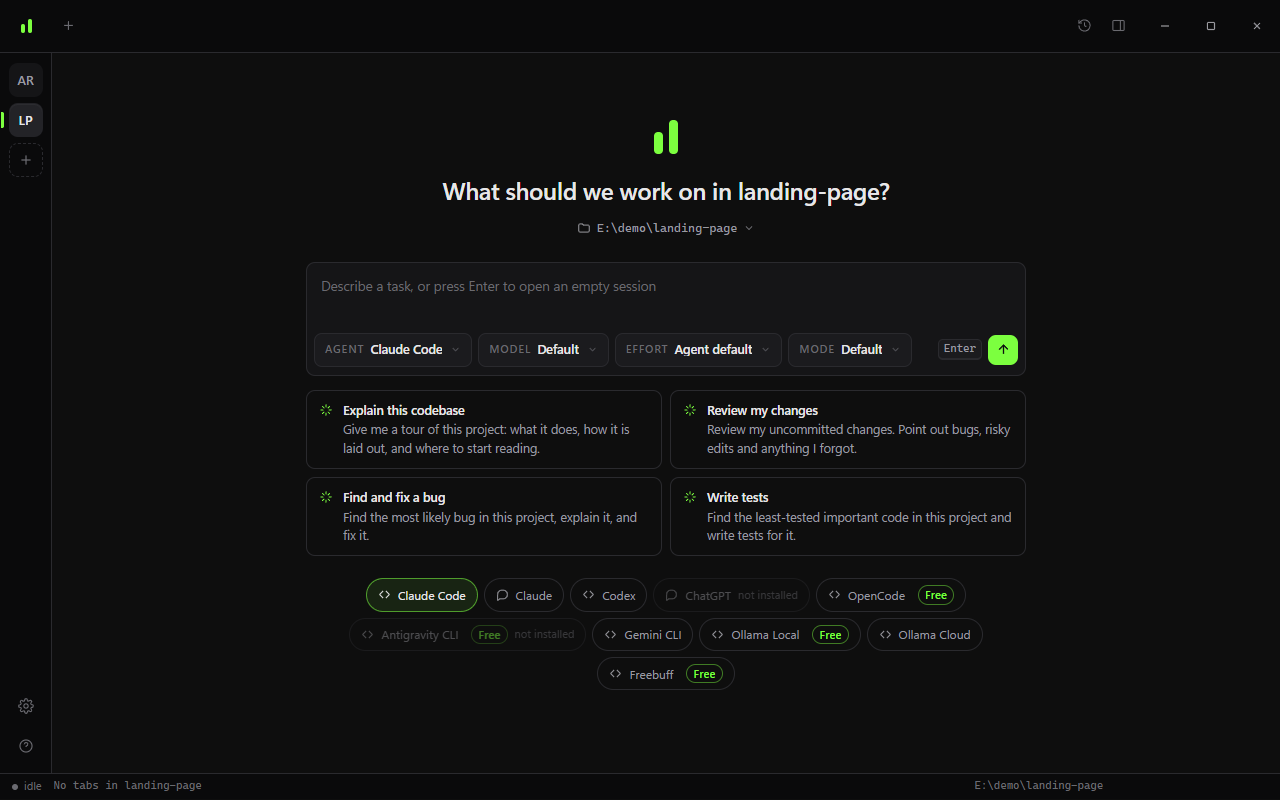
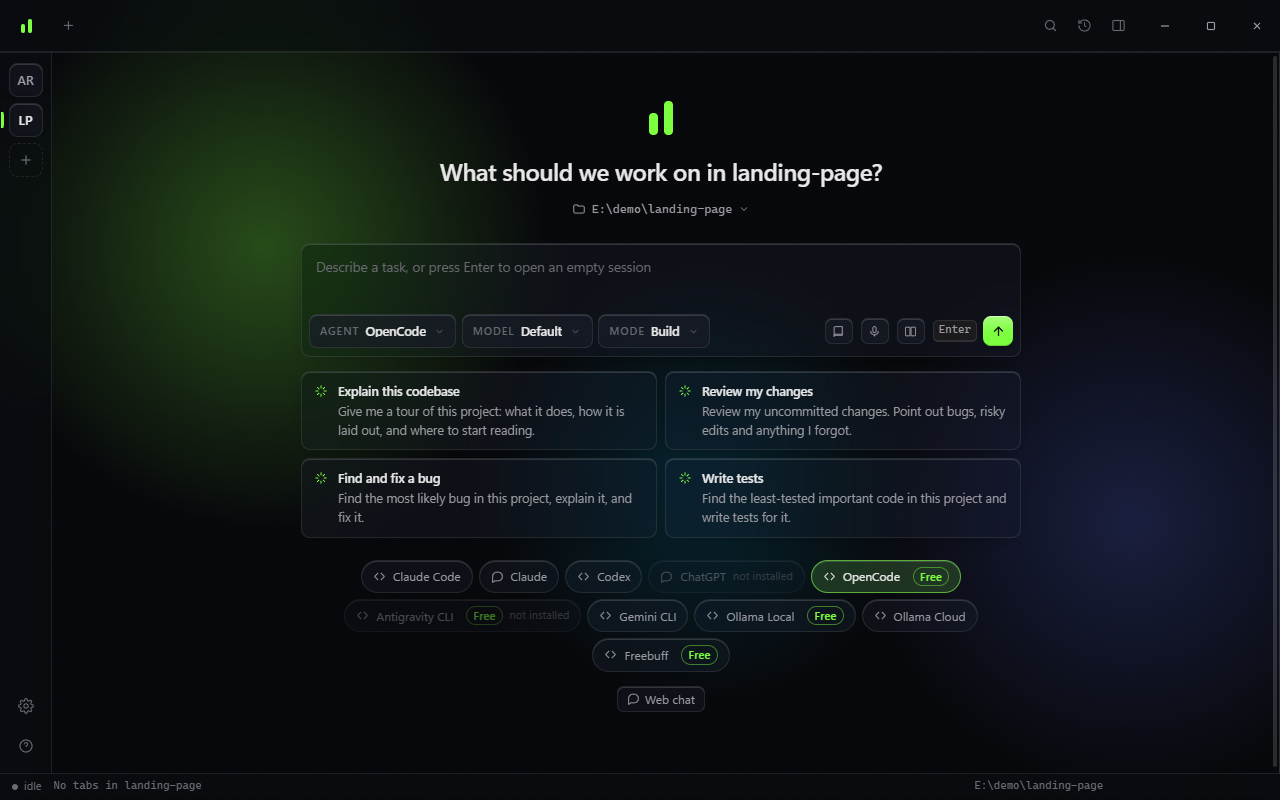
docs: 2.0 features, liquid glass screenshots and guide

Changed region(s): [[0.0625, 0.0625, 1.0, 0.9375], [0.7812, 0.9688, 0.8125, 1.0]]

diff --git a/README.md b/README.md
@@ -3,7 +3,7 @@
 </p>
 
 <p align="center">
-  A desktop-style window for Claude, Codex, OpenCode, Antigravity, Gemini CLI, Ollama and Freebuff, with a UI modeled on Freebuff.
+  A liquid-glass desktop window for Claude Code, Codex, OpenCode, Antigravity, Gemini CLI, Ollama and Freebuff.
 </p>
 
 ---
@@ -11,20 +11,32 @@
 ezCLI is not a harness. Each session spawns the real CLI in a real pseudo-terminal, so
 the agent's own text UI renders unchanged. Nothing is proxied, re-prompted, or rewritten.
 The window adds the parts a bare terminal lacks: tabs, an agent switcher, a file and diff
-browser, model, effort and mode flags you pick before launch, and images and videos
-you can paste or drop into the chat.
+browser with git actions, model, effort and mode flags you pick before launch, images and
+videos in the chat, and a compare mode that runs one prompt on several agents at once.
 
-![The ezCLI launcher: pick an agent, model, effort and mode, then describe the task](docs/screenshot-launcher.png)
+![The ezCLI launcher in the liquid glass style](docs/screenshot-launcher.png)
 
-![An OpenCode session with an image and a video attached in the composer](docs/screenshot-session.png)
+![Compare mode: one prompt running on three agents side by side](docs/screenshot-compare.png)
+
+![A session with an image and a video attached in the composer](docs/screenshot-session.png)
 
 ## Install
 
-The Windows installer lives on the [Releases page](https://github.com/Aryansingh0783/ezCLI/releases).
-Grab the latest `ezCLI_x.y.z_x64_en-US.msi`, double-click, done. The window opens with
-the agent CLIs already resolved from PATH.
+Download from the [Releases page](https://github.com/Aryansingh0783/ezCLI/releases/latest):
 
-The app writes its editable config to `~/.ezcli/agents.json` on first run.
+| Platform | File |
+| --- | --- |
+| Windows | `ezCLI_x.y.z_x64_en-US.msi` |
+| macOS (Apple silicon) | `ezCLI_x.y.z_aarch64.dmg` |
+| Linux | `ezCLI_x.y.z_amd64.deb` or `ezCLI_x.y.z_amd64.AppImage` |
+| VS Code | `ezcli-x.y.z.vsix`, then Extensions › … › Install from VSIX |
+
+The app writes its editable config to `~/.ezcli/agents.json` on first run. After that,
+ezCLI checks for new releases at startup and installs them with one click; an update is
+installed only when its download matches the SHA-256 published with the release.
+
+The macOS and Linux builds are new and less tested than Windows. PC control and voice
+typing are Windows-only for now.
 
 ## Free users and backend support
 
@@ -42,7 +54,7 @@ provider is free.
 | Backend | Free route | PC control | Install / setup |
 | --- | --- | --- | --- |
 | OpenCode | Yes. It includes key-free models and can also use connected providers or local Ollama. Its Model menu is refreshed from `opencode models`. | No | `npm install -g opencode-ai` |
-| Antigravity CLI | Yes, with a personal Google-account sign-in. It is the supported personal-Google route. | No | `irm https://antigravity.google/cli/install.ps1 \| iex` |
+| Antigravity CLI | Yes, with a personal Google-account sign-in. It is the supported personal-Google route. The Antigravity desktop app does not include this CLI. | No | `irm https://antigravity.google/cli/install.ps1 \| iex` |
 | Gemini CLI | Not through personal Google login. Use a Gemini API key, Vertex AI, or an enterprise configuration. | No | `npm install -g @google/gemini-cli` |
 | Ollama Local | Yes, after you choose a model that is already downloaded locally. The app detects coarse PC capacity to explain this route, but never pulls a model itself. | No | `irm https://ollama.com/install.ps1 \| iex` |
 | Ollama Cloud | Your signed-in Ollama account and its usage/plan limits apply. The Model pill reads Ollama's live public cloud catalog; it launches the matching Cloud CLI alias without a model download. | No | Install Ollama, then run `ollama signin` yourself |
@@ -72,6 +84,47 @@ an Ollama API key. It uses the signed-in local CLI only after you choose a live
 catalog entry.
 
 ## Current features
+
+### New in 2.0
+
+- **Compare agents.** Press `Ctrl+Alt+M`, pick up to six agents or models (or "All
+  ready agents"), and give one prompt. Each runs as its own CLI session, and the
+  window shows them side by side. "Send to all" sends every follow-up to the whole
+  group. Each session uses its own account and limits.
+- **Liquid glass.** Frosted panels over a slow aurora in your accent colour, with
+  small controls that refract what is behind them. Settings › Appearance switches
+  to Solid. Six accent colours.
+- **Command palette.** `Ctrl+Alt+P` searches every action, tab, folder and agent.
+- **Health check.** One screen with every CLI's version, path and sign-in state, and
+  the exact install command for anything missing. A provider's desktop app is not
+  its CLI; this screen says so.
+- **Updates.** ezCLI checks GitHub at startup and installs a new release with one
+  click after verifying its SHA-256.
+- **Prompt library.** Saved prompts with `{{variables}}` that are filled in before
+  insertion. `Ctrl+Alt+L`.
+- **Search past sessions.** Tab text is saved on this PC when a session ends, kept
+  for 30 days, and searchable with `Ctrl+Alt+F`. Turn it off in Settings.
+- **Export.** Save a session as Markdown or an HTML page (`Ctrl+Alt+E`).
+- **Git actions.** Stage, unstage, discard and commit from the Changes pane.
+  Discarding asks first.
+- **Usage-limit router.** When an agent says it is out of usage, a banner offers to
+  continue in another installed agent, free ones first, with a summary of your
+  recent requests.
+- **Notifications and tray.** A notification when a long task finishes in a tab you
+  are not looking at. Optionally keep running in the tray when the window closes.
+- **Per-folder defaults.** Each folder remembers the agent, model and mode it last
+  launched with.
+- **More windows.** Open a new window, or right-click a tab and move it, still
+  running, into its own window.
+- **Remote view.** Watch your sessions from a phone on the same Wi-Fi through a
+  private link and QR code. Typing from the phone is a separate switch.
+- **Voice typing.** `Ctrl+Alt+D` opens Windows voice typing in the message box.
+- **Web chat (experimental).** For plans with no CLI access, such as Claude Free,
+  open the provider's own site in a separate window with no ezCLI permissions.
+- **VS Code extension.** Start agents from your ezCLI setup in VS Code terminals,
+  compare them side by side, or open a folder in the app.
+
+### Earlier
 
 - **Sessions survive restarts.** Every open tab comes back as a "parked" tab on next
   launch, with a Resume button that relaunches the same agent, model, mode and folder.
@@ -154,6 +207,12 @@ The window claims only `Ctrl+Alt` combinations, so the agent's own terminal shor
 | `Enter` | Send the composer |
 | `Shift+Enter` | New line in the composer |
 | `Ctrl+V` (in the composer) | Attach a copied image or screenshot |
+| `Ctrl+Alt+P` | Command palette |
+| `Ctrl+Alt+M` | Compare agents |
+| `Ctrl+Alt+L` | Prompt library |
+| `Ctrl+Alt+F` | Search past sessions |
+| `Ctrl+Alt+E` | Export the session as Markdown |
+| `Ctrl+Alt+D` | Voice typing (Windows) |
 
 ## Configuring agents
 
@@ -273,6 +332,12 @@ src-tauri/
     files_api.rs        directory listing, 256KB text preview, binary heuristic
     git_api.rs          git status / diff via std::process
     media.rs            pasted images, workspace staging, ffmpeg video frames
+    features.rs         commands for the v2 features below
+    health.rs           CLI and tool versions, sign-in presence
+    transcripts.rs      saved session text and search
+    updater.rs          GitHub release check, SHA-256 verified install
+    remote.rs           token-gated remote view server (+ remote_page.html)
+    tray.rs             system tray icon
     backends.rs         installed-CLI and sign-in detection for onboarding
     capture.rs          primary-screen capture for PC control
     mcp_server.rs       loopback MCP tool server for PC control
@@ -283,8 +348,11 @@ public/                 the frontend, served from inside the Tauri window
   styles.css            Freebuff design tokens and components
   app.js                calls backend via window.__TAURI__.core.invoke
                         + window.__TAURI__.event.listen
+  features/             one script per v2 feature, plugged into app.js hooks;
+                        glass.css / glass.js hold the liquid glass style
   vendor/               xterm.js + addons, vendored (no bundler)
 
+vscode-ezcli/           the VS Code extension (plain JavaScript, no build step)
 agents.json             shipped default; copied to ~/.ezcli/agents.json on first run
 ```
 
@@ -306,10 +374,13 @@ there is no Node server or WebSocket relay.
 
 ## Design source
 
-Colors, radii, type scale, and spacing come from the live Freebuff dark shell and sit as
-tokens at the top of `public/styles.css`: background `#000`, sidebar `#1c1d1c`, border
-`#2f322f`, text `#dedfdd`, brand `#b5cea5`. The frontend passes the Impeccable design
-detector with no findings.
+The base tokens (radii, type scale, spacing, the lime accent) come from the Freebuff
+dark shell and sit at the top of `public/styles.css`. The liquid glass style in
+`public/features/glass.css` layers translucent surfaces, a backdrop blur, and an SVG
+displacement filter over those tokens, so every accent colour and both themes apply to
+it. The spotlight cards and the glowing border on the home box are vanilla
+re-implementations of ideas from React Bits and 21st.dev; no React or bundler is added.
+The frontend passes the Impeccable design detector with no findings.
 
 ## License
 

diff --git a/GUIDE.md b/GUIDE.md
@@ -9,6 +9,14 @@ How to install ezCLI, launch sessions, and use every part of the window.
 - [Start a session](#start-a-session)
 - [Work in a session](#work-in-a-session)
 - [Images and videos](#images-and-videos)
+- [Compare agents](#compare-agents)
+- [Command palette and prompts](#command-palette-and-prompts)
+- [Past sessions and export](#past-sessions-and-export)
+- [Health check and updates](#health-check-and-updates)
+- [Windows, tray and notifications](#windows-tray-and-notifications)
+- [Remote view](#remote-view)
+- [Web chat](#web-chat)
+- [VS Code extension](#vs-code-extension)
 - [Files pane](#files-pane)
 - [Changes pane](#changes-pane)
 - [Switch the working folder](#switch-the-working-folder)
@@ -123,6 +131,106 @@ own `.gitignore`, so git never picks it up, and you can delete it at any time.
 Pasted images and frames for the other agents live in `~/.ezcli/attachments`
 and are cleared after a week.
 
+## Compare agents
+
+Press `Ctrl+Alt+M`, or the two-column button in the home box.
+
+1. Type a prompt, or leave it empty to type later.
+2. Add agents with the buttons under the list. Add the same agent twice to compare two
+   of its models, and pick each model from the row's menu. **All ready agents** fills
+   the list with every installed agent, up to six.
+3. Press **Start**.
+
+Each pick launches as its own session, with its own CLI process, account and usage
+limits. While one of them is open, the terminal area shows the whole group side by side;
+the outlined pane is the one your keyboard goes to. With **Send to all** on, every
+message from the composer goes to all running sessions in the group. Attachments go to
+the focused session only. **Show one at a time** switches back to normal tabs.
+
+## Command palette and prompts
+
+`Ctrl+Alt+P`, or the magnifier in the titlebar, opens the command palette: every
+action, open tab, folder and installed agent in one searchable list. Type a few letters
+of any word and press `Enter`.
+
+`Ctrl+Alt+L` opens the prompt library. It starts with a few useful prompts. Write
+`{{name}}` in a prompt where a value should be filled in; when you use it, ezCLI asks
+for each value and puts the finished text in the message box for you to check. Nothing
+is sent automatically. **Manage prompts** adds, edits and deletes them, and **Save
+current text as a prompt** turns whatever is in the message box into a new one.
+
+## Past sessions and export
+
+When a session exits or its tab closes, ezCLI saves the terminal text to
+`~/.ezcli/transcripts` on this PC. Saved text is kept for 30 days. `Ctrl+Alt+F` searches
+all of it; open a result to read the whole session, copy it, or delete it. Settings ›
+Desktop turns saving off, and **Delete all saved sessions** removes everything.
+
+`Ctrl+Alt+E`, or **Export** in the session head, saves the current tab as a Markdown
+file. The Export menu also offers an HTML page that opens in any browser. Both contain
+the terminal's plain text, without colours.
+
+## Health check and updates
+
+Settings › Desktop › **Health check** lists every agent with its version, where ezCLI
+found it, and whether it looks signed in. Anything missing shows its install command
+with a Copy button. ezCLI checks sign-in by looking for the CLI's own auth file or API
+key variable; it never reads them. Where it cannot tell (Ollama Cloud), it says so.
+
+At startup ezCLI asks GitHub whether a newer release exists; an **Update** badge
+appears in the titlebar if one does. **Download and install** fetches the installer,
+checks it against the SHA-256 published with the release, starts it, and closes ezCLI.
+If the release has no checksum, ezCLI opens the release page instead. The check can be
+turned off in the Updates sheet.
+
+## Windows, tray and notifications
+
+- **New window**: from the command palette or the tray menu. Each window has its own tabs.
+- **Move a tab**: right-click a running tab › **Move to new window**. The CLI keeps
+  running; the new window replays its recent output and takes over.
+- **Tray**: ezCLI has a tray icon with Show, New window and Quit. Turn on **Keep running
+  in the tray** in Settings to hide the window on close instead of quitting.
+- **Notifications**: when a tab you are not looking at finishes a task that ran for more
+  than 15 seconds, Windows shows a notification. Turn it off in Settings.
+- **Per-folder defaults**: each folder remembers the agent, model and mode it last
+  launched with, and selects them when you switch to it.
+- **Voice typing**: `Ctrl+Alt+D` or the microphone button opens Windows voice typing in
+  the message box. Windows does the recognition.
+
+## Remote view
+
+Settings › Desktop › **Remote view** › **Turn on**. ezCLI shows a QR code and a link;
+open it on a phone or tablet on the same Wi-Fi to watch this window's sessions live.
+The link contains a long random code, so only people you give it to can open it.
+
+The view is read-only. **Allow typing from the phone** adds a message box and a Ctrl+C
+button; ezCLI asks you to confirm first, because typing into a CLI can edit files and
+run commands. The connection is plain HTTP on your local network. **Turn off** ends the
+link immediately, and the next one is different. Windows may ask once whether ezCLI
+can accept network connections.
+
+## Web chat
+
+For plans with no CLI access, such as Claude Free, **Web chat** under the agent list
+opens the provider's own website (Claude, ChatGPT, Gemini or Copilot) in a separate
+window. You sign in there yourself. That window has no ezCLI permissions, and ezCLI does
+not read or script anything in it. This is experimental and is not a session: it has no
+tab, history or compare support.
+
+## VS Code extension
+
+Install `ezcli-x.y.z.vsix` from the release page (Extensions › … › Install from VSIX).
+It reads the same `~/.ezcli/agents.json`, so open the ezCLI app once first. Then, from
+the Command Palette:
+
+- **ezCLI: Start an agent in a terminal** picks an agent and model and starts it in a new
+  terminal in your workspace.
+- **ezCLI: Compare agents side by side** opens two to four agents in editor-area terminals.
+- **ezCLI: Open this folder in the ezCLI app** opens the folder in the app, or in the copy
+  that is already running.
+
+The first two are also in the Explorer's right-click menu for folders.
+
 ## Files pane
 
 The **Files** tab browses the session's working folder. Click a folder to go in,
@@ -134,7 +242,14 @@ dumping bytes.
 
 The **Changes** tab runs `git` in the session folder. It shows the current branch,
 every file in the working tree that differs from the last commit, and a colored diff
-when you pick a file. New untracked files show as an all-added diff.
+when you pick a file. New untracked files show as an all-added diff, and a new folder
+shows as one row with its file count.
+
+Hover a row for its actions: **+** stages it, **−** unstages it, and the curved arrow
+discards it. Discarding asks first, because it cannot be undone from ezCLI: a tracked
+file goes back to its last commit, and a new file is deleted. The box above the list
+commits what is staged, or every tracked change when nothing is staged. **Stage all**
+stages everything at once.
 
 If the folder is not a git repository, or `git` is not installed, the pane says so
 instead of failing silently.
@@ -237,7 +352,7 @@ The MSI lands in `src-tauri/target/release/bundle/msi/`.
 
 ## Troubleshooting
 
-**An agent card is disabled.** The `command` is not on PATH. ezCLI runs command line
+**An agent card is disabled.** Open the Health check (Settings › Desktop) to see why. The `command` is not on PATH. ezCLI runs command line
 tools, so a provider's desktop app (Claude Desktop, the ChatGPT app) does not count.
 Install the CLI (for example `npm install -g @anthropic-ai/claude-code` or
 `npm install -g @openai/codex`), then click **Reload agents** in Settings. ezCLI reads
